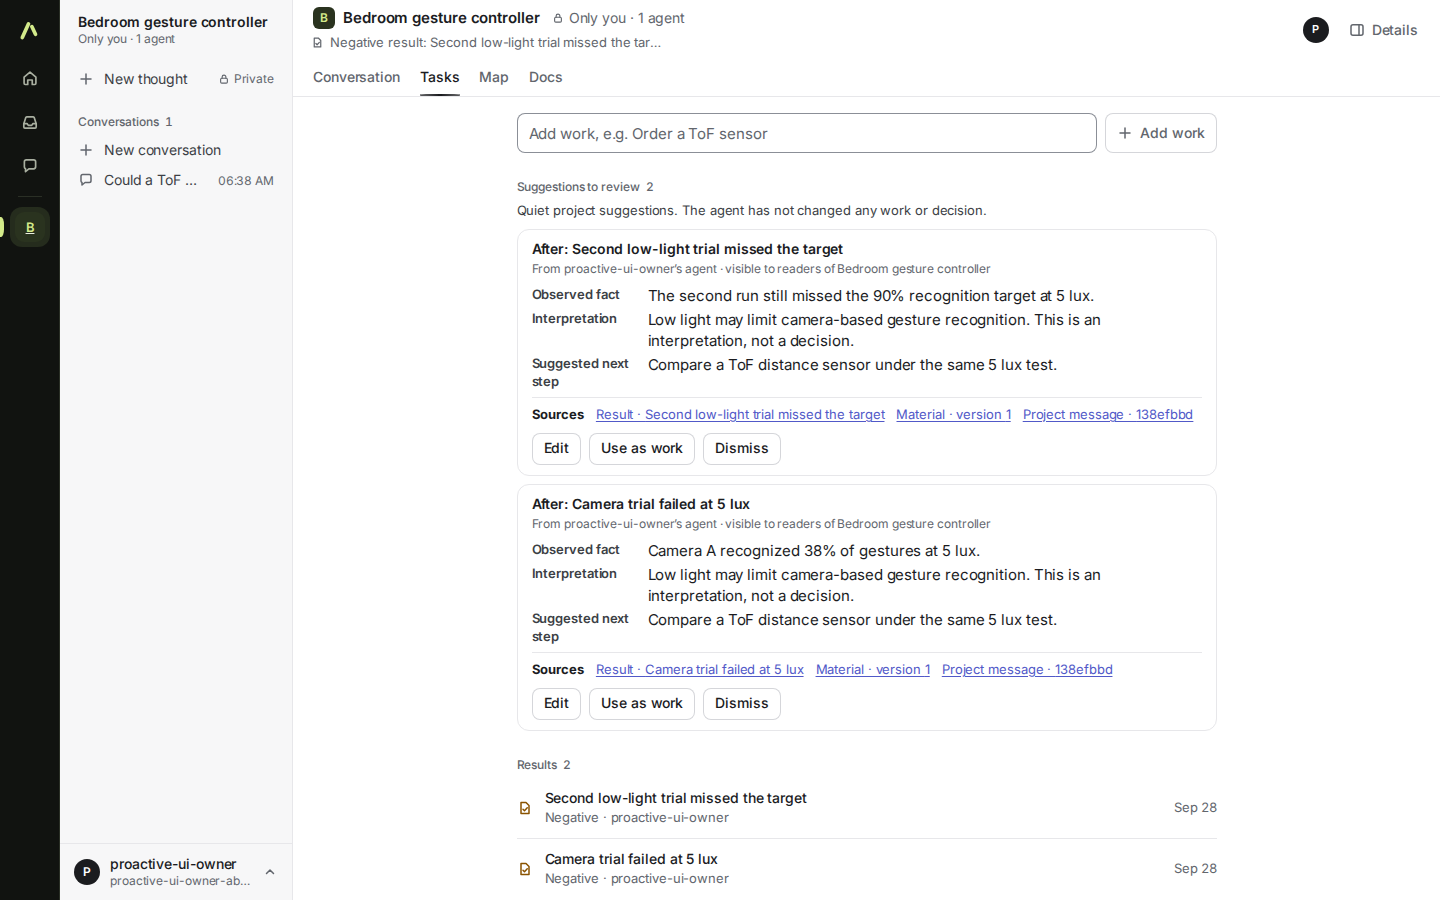
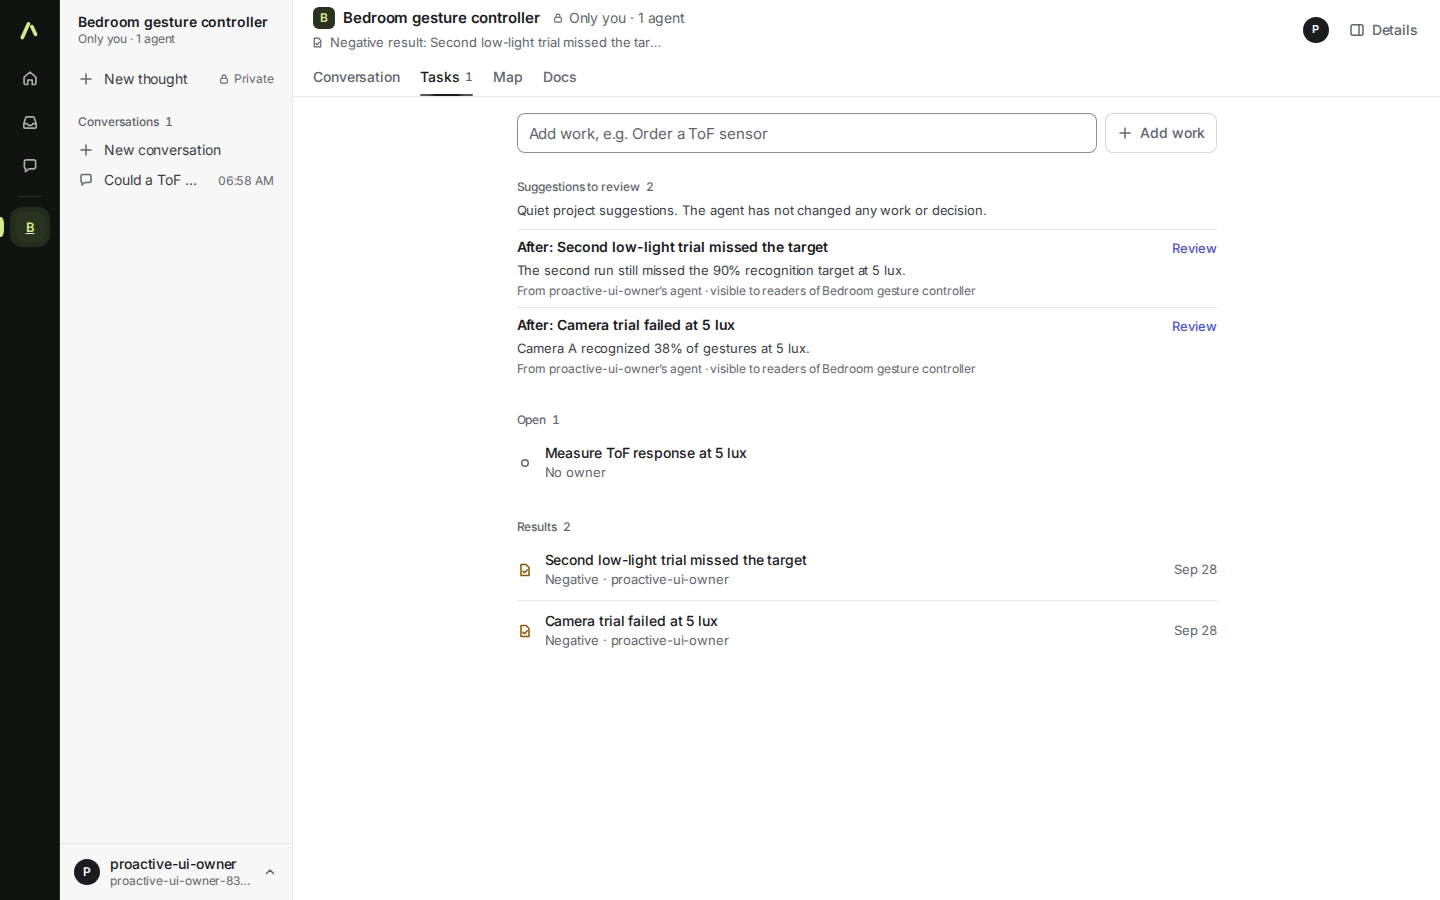
feat: keep ordinary project work visible beside quiet proposals (#58)

diff --git a/tests/app/e2e/proactive-comparison.e2e.ts b/tests/app/e2e/proactive-comparison.e2e.ts
@@ -60,15 +60,21 @@ test('real project UI presents sourced quiet suggestions, then persists edits, u
   assert.equal(await cards.count(), 2);
   const initial = (await proposals()).filter((item) => item.status === 'proposed');
   assert.equal(initial.length, 2);
-  assert.match(await cards.first().locator('h3').innerText(), /Second low-light trial/);
-  assert.match(await cards.nth(1).locator('h3').innerText(), /Camera trial failed/);
-  assert.match(await cards.first().innerText(), /Observed fact[\s\S]*Interpretation[\s\S]*Suggested next step[\s\S]*Sources/);
+  assert.match(await cards.first().locator('.ws-proposal__title').innerText(), /Second low-light trial/);
+  assert.match(await cards.nth(1).locator('.ws-proposal__title').innerText(), /Camera trial failed/);
+  assert.equal(await cards.first().locator('.ws-proposal__toggle').getAttribute('aria-expanded'), 'false');
   assert.match(await page.locator('.ws-proposals__intro').innerText(), /has not changed any work or decision/);
-  const resultRow = await page.locator('#g-results + .ws-list .ws-item').first().boundingBox();
+  const workRow = await page.locator('#g-open + .ws-list .ws-item').first().boundingBox();
+  const resultRow = await page.locator('#g-results + .ws-list .ws-item').nth(1).boundingBox();
+  assert.ok(workRow && workRow.y + workRow.height < 900, 'ordinary work remains visible at 1440×900');
   assert.ok(resultRow && resultRow.y + resultRow.height < 900,
-    'the first ordinary result remains visible below the suggestions at 1440×900');
+    'both ordinary results remain visible below the suggestions at 1440×900');
   await page.screenshot({ path: '/state/proactive-ui-1440.png', fullPage: true });
 
+  await cards.first().locator('.ws-proposal__toggle').focus();
+  await page.keyboard.press('Enter');
+  assert.equal(await cards.first().locator('.ws-proposal__toggle').getAttribute('aria-expanded'), 'true');
+  assert.match(await cards.first().innerText(), /Observed fact[\s\S]*Interpretation[\s\S]*Suggested next step[\s\S]*Sources/);
   const message = cards.first().getByRole('link', { name: /Project message/ });
   assert.equal(await message.getAttribute('href'),
     `/projects/${fixture.projectId}/conversations/${fixture.conversationId}#message-${fixture.messageId}`);
@@ -76,11 +82,13 @@ test('real project UI presents sourced quiet suggestions, then persists edits, u
   await page.locator(`#message-${fixture.messageId}`).waitFor();
   await page.goto(`${origin.origin}/projects/${fixture.projectId}/tasks`);
   await cards.first().waitFor();
+  await cards.first().locator('.ws-proposal__toggle').click();
   await cards.first().getByRole('button', { name: 'Edit', exact: true }).click();
   await cards.first().getByLabel('Interpretation').fill('The camera result suggests testing a distance sensor, but needs a controlled comparison.');
   await cards.first().getByRole('button', { name: 'Save edits' }).click();
   await page.waitForFunction(() => document.querySelector('.ws-proposal')?.textContent?.includes('needs a controlled comparison'));
   await page.reload();
+  await cards.first().locator('.ws-proposal__toggle').click();
   assert.match(await cards.first().innerText(), /needs a controlled comparison/);
   let stored = await proposals();
   assert.equal(stored.find((item) => item.id === initial[0]?.id)?.version, 2);
@@ -95,6 +103,7 @@ test('real project UI presents sourced quiet suggestions, then persists edits, u
   assert.equal(work.status, 200);
   assert.ok((work.data as { items: Array<{ id: string }> }).items.some((item) => item.id === used.usedWorkId));
 
+  await cards.first().locator('.ws-proposal__toggle').click();
   await cards.first().getByRole('button', { name: 'Dismiss' }).click();
   await page.waitForFunction(() => document.querySelectorAll('.ws-proposal').length === 0);
   await page.reload();

diff --git a/apps/web/src/project/ProjectProposals.tsx b/apps/web/src/project/ProjectProposals.tsx
@@ -15,6 +15,7 @@ export function ProjectProposals({ proposals, people, projectName, resultTitles,
   const [action, setAction] = useState('');
   const [busy, setBusy] = useState(false);
   const [error, setError] = useState('');
+  const [expanded, setExpanded] = useState<string | null>(null);
   const open = proposals.filter((proposal) => proposal.status === 'proposed');
   if (!open.length) return null;
   const name = (id: string) => people?.find((person) => person.id === id)?.name ?? 'a project member';
@@ -34,7 +35,9 @@ export function ProjectProposals({ proposals, people, projectName, resultTitles,
         const outcome = await applyComparisonProposal(proposal, proposal.suggestedAction.slice(0, 200));
         openWork(outcome.work);
       }
-      setEditing(null); refresh();
+      setEditing(null);
+      if (kind !== 'edit') setExpanded(null);
+      refresh();
     } catch (cause) {
       setError(cause instanceof Error ? cause.message : 'The proposal could not be changed.');
     } finally { setBusy(false); }
@@ -45,9 +48,17 @@ export function ProjectProposals({ proposals, people, projectName, resultTitles,
       <p className="ws-proposals__intro">Quiet project suggestions. The agent has not changed any work or decision.</p>
       {open.map((proposal) => {
         const isEditing = editing === proposal.id;
+        const isExpanded = expanded === proposal.id;
         return <article className="ws-proposal" key={proposal.id} aria-label={`Comparison suggestion for ${projectName}`}>
-          <h3 className="ws-proposal__title">After: {resultTitles.get(proposal.resultId) ?? 'Project result'}</h3>
+          <button type="button" className="ws-proposal__toggle" aria-expanded={isExpanded}
+            aria-controls={`comparison-proposal-${proposal.id}`} disabled={busy}
+            onClick={() => { setExpanded(isExpanded ? null : proposal.id); setEditing(null); setError(''); }}>
+            <span className="ws-proposal__title">After: {resultTitles.get(proposal.resultId) ?? 'Project result'}</span>
+            <span className="ws-proposal__expand">{isExpanded ? 'Hide details' : 'Review'}</span>
+            <span className="ws-proposal__cue">{proposal.fact}</span>
+          </button>
           <p className="ws-proposal__origin">From {name(proposal.ownerUserId)}’s agent · visible to readers of {projectName}</p>
+          {isExpanded ? <div id={`comparison-proposal-${proposal.id}`} className="ws-proposal__body">
           {isEditing ? <>
             <label>Observed fact<textarea value={fact} maxLength={10000} onChange={(event) => setFact(event.target.value)} /></label>
             <label>Interpretation<textarea value={interpretation} maxLength={10000} onChange={(event) => setInterpretation(event.target.value)} /></label>
@@ -80,6 +91,7 @@ export function ProjectProposals({ proposals, people, projectName, resultTitles,
             <Button disabled={busy} onClick={() => void change(proposal, 'dismiss')}>Dismiss</Button>
           </div> : null}
           {error ? <p className="wd-error" role="alert">{error}</p> : null}
+          </div> : null}
         </article>;
       })}
     </section>

diff --git a/apps/web/src/work/work.css b/apps/web/src/work/work.css
@@ -140,9 +140,15 @@
 .project-convo__message:has(.ws-acts--more) .project-convo__message-meta { padding-right: 36px; }
 /* Quiet, project-scoped comparison proposals on the Tasks return surface. */
 .ws-proposals__intro { margin: 0 0 8px; color: var(--text-2); font-size: var(--fs-sm); }
-.ws-proposal { padding: 10px 14px; margin: 0 0 8px; border: 1px solid var(--line); border-radius: var(--r-lg); background: var(--bg); }
-.ws-proposal__title { margin: 0 0 2px; font-size: var(--fs-md); font-weight: 600; line-height: 1.35; overflow-wrap: anywhere; }
-.ws-proposal__origin { margin: 0 0 7px; color: var(--text-3); font-size: var(--fs-xs); }
+.ws-proposal { padding: 8px 0; border-top: 1px solid var(--line); }
+.ws-proposal__toggle { display: grid; grid-template-columns: minmax(0, 1fr) auto; gap: 1px 10px; width: 100%; min-height: 36px; padding: 0; text-align: left; }
+.ws-proposal__toggle:hover .ws-proposal__title, .ws-proposal__toggle:focus-visible .ws-proposal__title { color: var(--accent); }
+.ws-proposal__toggle:focus-visible { outline: 2px solid var(--accent); outline-offset: 2px; border-radius: var(--r-sm); }
+.ws-proposal__title { min-width: 0; overflow: hidden; text-overflow: ellipsis; white-space: nowrap; font-size: var(--fs-md); font-weight: 600; line-height: 1.35; }
+.ws-proposal__expand { color: var(--accent); font-size: var(--fs-sm); font-weight: 500; }
+.ws-proposal__cue { grid-column: 1 / -1; min-width: 0; overflow: hidden; text-overflow: ellipsis; white-space: nowrap; color: var(--text-2); font-size: var(--fs-sm); }
+.ws-proposal__origin { margin: 2px 0 0; color: var(--text-3); font-size: var(--fs-xs); }
+.ws-proposal__body { margin: 10px 0 4px; padding: 10px 12px; border: 1px solid var(--line); border-radius: var(--r); }
 .ws-proposal p { line-height: 1.4; overflow-wrap: anywhere; }
 .ws-proposal__detail { display: grid; grid-template-columns: 108px minmax(0, 1fr); gap: 8px; margin: 3px 0; }
 .ws-proposal__detail strong { color: var(--text-2); font-size: var(--fs-sm); font-weight: 600; }
@@ -156,4 +162,6 @@
 @media (max-width: 640px) {
   .ws-proposal__detail { display: block; }
   .ws-proposal__detail strong { display: block; }
+  .ws-proposal { padding: 10px 0; }
+  .ws-proposal__toggle { min-height: 44px; }
 }

diff --git a/tests/app/seed-proactive-ui.ts b/tests/app/seed-proactive-ui.ts
@@ -24,6 +24,8 @@ try {
       body: 'Camera A recognized 38% of 20 gestures. The target is 90%.' } }), 201) as Material;
   const conversation = expectStatus(await owner.browser.request('POST', `/api/v1/projects/${prj.id}/conversations`,
     { body: { clientMessageId: randomUUID(), body: 'Could a ToF distance sensor work better than our camera in a dark bedroom?' } }), 201) as Conversation;
+  expectStatus(await owner.browser.request('POST', `/api/v1/projects/${prj.id}/work`,
+    { body: { title: 'Measure ToF response at 5 lux' }, headers: { 'idempotency-key': randomUUID() } }), 201);
   const results: WorkResult[] = [];
   for (const title of ['Camera trial failed at 5 lux', 'Second low-light trial missed the target']) {
     results.push(expectStatus(await owner.browser.request('POST', `/api/v1/projects/${prj.id}/results`,

diff --git a/docs/design/proactive-comparison/README.md b/docs/design/proactive-comparison/README.md
@@ -1,11 +1,12 @@
 # Project comparison suggestions (#58)
 
 The [1440×900 screenshot](project-tasks-1440.png) shows a restricted sensor
-project's Tasks surface at 100% zoom with two negative low-light results, their
-separately sourced agent suggestions and the ordinary result list. It was
-rendered from persisted Docker seed data at application commit `2c51b1e` on
-2026-09-28. The two result titles are intentionally distinct while the shared
-interpretation and next step repeat, making scanning pressure visible.
+project's Tasks surface at 100% zoom with one human work item, two negative
+low-light results, two collapsed, separately sourced agent suggestions and the
+ordinary work/result lists. It was rendered from persisted Docker seed data
+on 2026-09-28. The two result titles are intentionally distinct. Opening a
+suggestion reveals its fact, interpretation, next step, citations and human
+actions; the collapsed state keeps ordinary work visible before review.
 
 The browser journey in `tests/app/e2e/proactive-comparison.e2e.ts` separately
 checks an exact source-message route, edit/reload, use as work, dismissal and

diff --git a/docs/development/proactive-comparison.md b/docs/development/proactive-comparison.md
@@ -59,9 +59,11 @@ the still-disabled background rule.
 Another project member may author a qualifying result under the owner's standing
 rule, but cannot read or revoke that owner's connection or directly command it.
 The API has no route to change the rule's owner, audience, scope or purpose.
-The Docker browser journey in `tests/app/e2e/proactive-comparison.e2e.ts` seeds two
-proposals for a restricted project, renders them at 1440×900, follows an exact
-project-message citation, then edits, uses and dismisses them. It verifies the
+The Docker browser journey in `tests/app/e2e/proactive-comparison.e2e.ts` seeds
+one human work item and two proposals for a restricted project, renders their
+compact review rows alongside ordinary work and results at 1440×900, opens one
+by keyboard, follows an exact project-message citation, then edits, uses and
+dismisses them. It verifies the
 stored versions and resulting work through the API after reload. A person also
 creates work manually after both proposals are gone, so the continuing project
 workflow does not depend on an available model connection.
